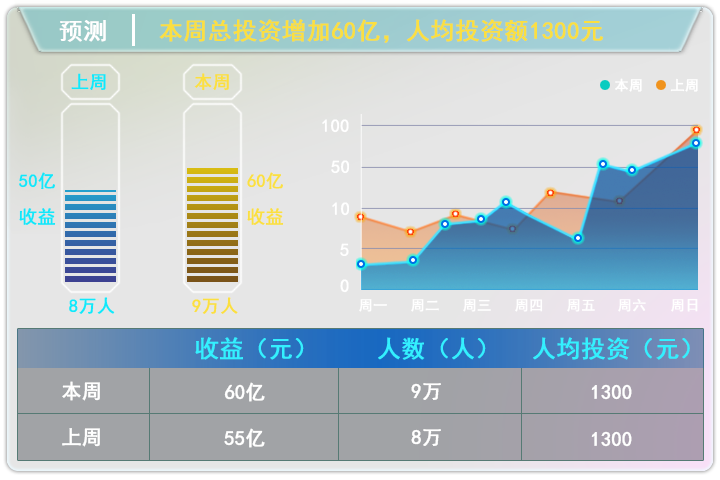
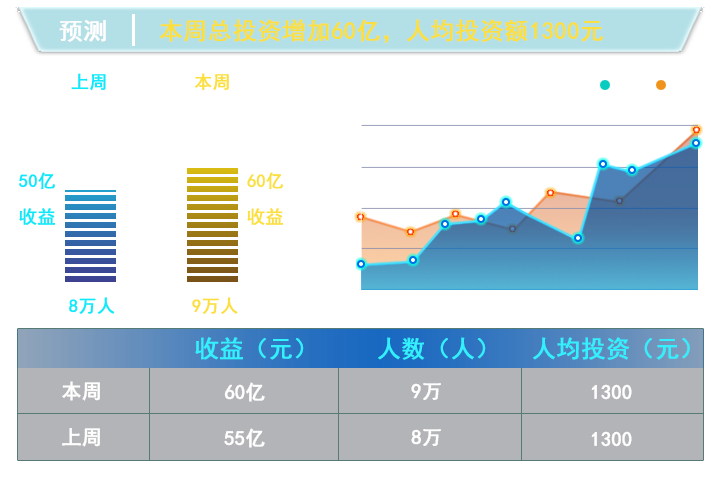
预言家假模块图片信息分开

diff --git a/source/7.5.11-eai-cockpit-forecast/FEaiCockpitForecastLogic001Snapshot.js b/source/7.5.11-eai-cockpit-forecast/FEaiCockpitForecastLogic001Snapshot.js
@@ -10,7 +10,8 @@ MO.FEaiCockpitForecastLogic001Snapshot = function FEaiCockpitForecastLogic001Sna
    //..........................................................
    o._comingSoon    = true;
    // @attribute
-   o._backgroundUri = '{eai.resource}/cockpit/forecast/logic1.png';
+   o._backgroundUri = '{eai.resource}/cockpit/forecast/logic.png';
+   o._contImage     = null;
    //..........................................................
    // @event
    o.onPaintBegin   = MO.FEaiCockpitForecastLogic001Snapshot_onPaintBegin;
@@ -32,9 +33,14 @@ MO.FEaiCockpitForecastLogic001Snapshot = function FEaiCockpitForecastLogic001Sna
 //
 // @method
 //==========================================================
-MO.FEaiCockpitForecastLogic001Snapshot_onPaintBegin = function FEaiCockpitForecastLogic001Snapshot_onPaintBegin(event){
+MO.FEaiCockpitForecastLogic001Snapshot_onPaintBegin = function FEaiCockpitForecastLogic001Snapshot_onPaintBegin(event) {
    var o = this;
    o.__base.FEaiCockpitControl.onPaintBegin.call(o, event);
+   graphic = event.graphic;
+   var rectangle = event.rectangle;
+   var left = rectangle.left;
+   var top = rectangle.top;
+   graphic.drawImage(o._contImage, left, top);
 }
 
 //==========================================================
@@ -68,6 +74,7 @@ MO.FEaiCockpitForecastLogic001Snapshot_construct = function FEaiCockpitForecastL
 MO.FEaiCockpitForecastLogic001Snapshot_setup = function FEaiCockpitForecastLogic001Snapshot_setup(){
    var o = this;
    o.__base.FEaiCockpitControl.setup.call(o);
+   o._contImage = o.loadResourceImage('{eai.resource}/cockpit/forecast/logic1.png');
 }
 
 //==========================================================

diff --git a/source/7.5.11-eai-cockpit-forecast/FEaiCockpitForecastLogic003Snapshot.js b/source/7.5.11-eai-cockpit-forecast/FEaiCockpitForecastLogic003Snapshot.js
@@ -10,7 +10,8 @@ MO.FEaiCockpitForecastLogic003Snapshot = function FEaiCockpitForecastLogic003Sna
    //..........................................................
    o._comingSoon    = true;
    // @attribute
-   o._backgroundUri = '{eai.resource}/cockpit/forecast/logic3.png';
+   o._backgroundUri = '{eai.resource}/cockpit/forecast/logic.png';
+   o._contImage     = null;
    //..........................................................
    // @event
    o.onPaintBegin   = MO.FEaiCockpitForecastLogic003Snapshot_onPaintBegin;
@@ -35,6 +36,11 @@ MO.FEaiCockpitForecastLogic003Snapshot = function FEaiCockpitForecastLogic003Sna
 MO.FEaiCockpitForecastLogic003Snapshot_onPaintBegin = function FEaiCockpitForecastLogic003Snapshot_onPaintBegin(event){
    var o = this;
    o.__base.FEaiCockpitControl.onPaintBegin.call(o, event);
+   graphic = event.graphic;
+   var rectangle = event.rectangle;
+   var left = rectangle.left;
+   var top = rectangle.top;
+   graphic.drawImage(o._contImage, left, top);
 }
 
 //==========================================================
@@ -68,6 +74,7 @@ MO.FEaiCockpitForecastLogic003Snapshot_construct = function FEaiCockpitForecastL
 MO.FEaiCockpitForecastLogic003Snapshot_setup = function FEaiCockpitForecastLogic003Snapshot_setup(){
    var o = this;
    o.__base.FEaiCockpitControl.setup.call(o);
+   o._contImage = o.loadResourceImage('{eai.resource}/cockpit/forecast/logic3.png');
 }
 
 //==========================================================

diff --git a/source/7.5.11-eai-cockpit-forecast/FEaiCockpitForecastLogic004Snapshot.js b/source/7.5.11-eai-cockpit-forecast/FEaiCockpitForecastLogic004Snapshot.js
@@ -10,7 +10,8 @@ MO.FEaiCockpitForecastLogic004Snapshot = function FEaiCockpitForecastLogic004Sna
    //..........................................................
    o._comingSoon    = true;
    // @attribute
-   o._backgroundUri = '{eai.resource}/cockpit/forecast/logic4.png';
+   o._backgroundUri = '{eai.resource}/cockpit/forecast/logic.png';
+   o._contImage     = null;
    //..........................................................
    // @event
    o.onPaintBegin   = MO.FEaiCockpitForecastLogic004Snapshot_onPaintBegin;
@@ -35,6 +36,11 @@ MO.FEaiCockpitForecastLogic004Snapshot = function FEaiCockpitForecastLogic004Sna
 MO.FEaiCockpitForecastLogic004Snapshot_onPaintBegin = function FEaiCockpitForecastLogic004Snapshot_onPaintBegin(event){
    var o = this;
    o.__base.FEaiCockpitControl.onPaintBegin.call(o, event);
+   graphic = event.graphic;
+   var rectangle = event.rectangle;
+   var left = rectangle.left;
+   var top = rectangle.top;
+   graphic.drawImage(o._contImage, left, top);
 }
 
 //==========================================================
@@ -68,6 +74,7 @@ MO.FEaiCockpitForecastLogic004Snapshot_construct = function FEaiCockpitForecastL
 MO.FEaiCockpitForecastLogic004Snapshot_setup = function FEaiCockpitForecastLogic004Snapshot_setup(){
    var o = this;
    o.__base.FEaiCockpitControl.setup.call(o);
+   o._contImage = o.loadResourceImage('{eai.resource}/cockpit/forecast/logic4.png');
 }
 
 //==========================================================

diff --git a/source/7.5.11-eai-cockpit-forecast/FEaiCockpitForecastLogic005Snapshot.js b/source/7.5.11-eai-cockpit-forecast/FEaiCockpitForecastLogic005Snapshot.js
@@ -10,7 +10,8 @@ MO.FEaiCockpitForecastLogic005Snapshot = function FEaiCockpitForecastLogic005Sna
    //..........................................................
    o._comingSoon    = true;
    // @attribute
-   o._backgroundUri = '{eai.resource}/cockpit/forecast/logic5.png';
+   o._backgroundUri = '{eai.resource}/cockpit/forecast/logic.png';
+   o._contImage     = null;
    //..........................................................
    // @event
    o.onPaintBegin   = MO.FEaiCockpitForecastLogic005Snapshot_onPaintBegin;
@@ -35,6 +36,11 @@ MO.FEaiCockpitForecastLogic005Snapshot = function FEaiCockpitForecastLogic005Sna
 MO.FEaiCockpitForecastLogic005Snapshot_onPaintBegin = function FEaiCockpitForecastLogic005Snapshot_onPaintBegin(event){
    var o = this;
    o.__base.FEaiCockpitControl.onPaintBegin.call(o, event);
+   graphic = event.graphic;
+   var rectangle = event.rectangle;
+   var left = rectangle.left;
+   var top = rectangle.top;
+   graphic.drawImage(o._contImage, left, top);
 }
 
 //==========================================================
@@ -68,6 +74,7 @@ MO.FEaiCockpitForecastLogic005Snapshot_construct = function FEaiCockpitForecastL
 MO.FEaiCockpitForecastLogic005Snapshot_setup = function FEaiCockpitForecastLogic005Snapshot_setup(){
    var o = this;
    o.__base.FEaiCockpitControl.setup.call(o);
+   o._contImage = o.loadResourceImage('{eai.resource}/cockpit/forecast/logic5.png');
 }
 
 //==========================================================

diff --git a/source/7.5.11-eai-cockpit-forecast/FEaiCockpitForecastLogic006Snapshot.js b/source/7.5.11-eai-cockpit-forecast/FEaiCockpitForecastLogic006Snapshot.js
@@ -10,7 +10,8 @@ MO.FEaiCockpitForecastLogic006Snapshot = function FEaiCockpitForecastLogic006Sna
    //..........................................................
    o._comingSoon    = true;
    // @attribute
-   o._backgroundUri = '{eai.resource}/cockpit/forecast/logic6.png';
+   o._backgroundUri = '{eai.resource}/cockpit/forecast/logic.png';
+   o._contImage     = null;
    //..........................................................
    // @event
    o.onPaintBegin   = MO.FEaiCockpitForecastLogic006Snapshot_onPaintBegin;
@@ -35,6 +36,11 @@ MO.FEaiCockpitForecastLogic006Snapshot = function FEaiCockpitForecastLogic006Sna
 MO.FEaiCockpitForecastLogic006Snapshot_onPaintBegin = function FEaiCockpitForecastLogic006Snapshot_onPaintBegin(event){
    var o = this;
    o.__base.FEaiCockpitControl.onPaintBegin.call(o, event);
+   graphic = event.graphic;
+   var rectangle = event.rectangle;
+   var left = rectangle.left;
+   var top = rectangle.top;
+   graphic.drawImage(o._contImage, left, top);
 }
 
 //==========================================================
@@ -68,6 +74,7 @@ MO.FEaiCockpitForecastLogic006Snapshot_construct = function FEaiCockpitForecastL
 MO.FEaiCockpitForecastLogic006Snapshot_setup = function FEaiCockpitForecastLogic006Snapshot_setup(){
    var o = this;
    o.__base.FEaiCockpitControl.setup.call(o);
+   o._contImage = o.loadResourceImage('{eai.resource}/cockpit/forecast/logic6.png');
 }
 
 //==========================================================

diff --git a/source/7.5.11-eai-cockpit-forecast/FEaiCockpitForecastLogic007Snapshot.js b/source/7.5.11-eai-cockpit-forecast/FEaiCockpitForecastLogic007Snapshot.js
@@ -10,7 +10,8 @@ MO.FEaiCockpitForecastLogic007Snapshot = function FEaiCockpitForecastLogic007Sna
    //..........................................................
    o._comingSoon    = true;
    // @attribute
-   o._backgroundUri = '{eai.resource}/cockpit/forecast/logic7.png';
+   o._backgroundUri = '{eai.resource}/cockpit/forecast/logic.png';
+   o._contImage     = null;
    //..........................................................
    // @event
    o.onPaintBegin   = MO.FEaiCockpitForecastLogic007Snapshot_onPaintBegin;
@@ -35,6 +36,11 @@ MO.FEaiCockpitForecastLogic007Snapshot = function FEaiCockpitForecastLogic007Sna
 MO.FEaiCockpitForecastLogic007Snapshot_onPaintBegin = function FEaiCockpitForecastLogic007Snapshot_onPaintBegin(event){
    var o = this;
    o.__base.FEaiCockpitControl.onPaintBegin.call(o, event);
+   graphic = event.graphic;
+   var rectangle = event.rectangle;
+   var left = rectangle.left;
+   var top = rectangle.top;
+   graphic.drawImage(o._contImage, left, top);
 }
 
 //==========================================================
@@ -68,6 +74,7 @@ MO.FEaiCockpitForecastLogic007Snapshot_construct = function FEaiCockpitForecastL
 MO.FEaiCockpitForecastLogic007Snapshot_setup = function FEaiCockpitForecastLogic007Snapshot_setup(){
    var o = this;
    o.__base.FEaiCockpitControl.setup.call(o);
+   o._contImage = o.loadResourceImage('{eai.resource}/cockpit/forecast/logic7.png');
 }
 
 //==========================================================

diff --git a/source/7.5.11-eai-cockpit-forecast/FEaiCockpitForecastLogic008Snapshot.js b/source/7.5.11-eai-cockpit-forecast/FEaiCockpitForecastLogic008Snapshot.js
@@ -10,7 +10,8 @@ MO.FEaiCockpitForecastLogic008Snapshot = function FEaiCockpitForecastLogic008Sna
    //..........................................................
    o._comingSoon    = true;
    // @attribute
-   o._backgroundUri = '{eai.resource}/cockpit/forecast/logic8.png';
+   o._backgroundUri = '{eai.resource}/cockpit/forecast/logic.png';
+   o._contImage     = null;
    //..........................................................
    // @event
    o.onPaintBegin   = MO.FEaiCockpitForecastLogic008Snapshot_onPaintBegin;
@@ -35,6 +36,11 @@ MO.FEaiCockpitForecastLogic008Snapshot = function FEaiCockpitForecastLogic008Sna
 MO.FEaiCockpitForecastLogic008Snapshot_onPaintBegin = function FEaiCockpitForecastLogic008Snapshot_onPaintBegin(event){
    var o = this;
    o.__base.FEaiCockpitControl.onPaintBegin.call(o, event);
+   graphic = event.graphic;
+   var rectangle = event.rectangle;
+   var left = rectangle.left;
+   var top = rectangle.top;
+   graphic.drawImage(o._contImage, left, top);
 }
 
 //==========================================================
@@ -68,6 +74,7 @@ MO.FEaiCockpitForecastLogic008Snapshot_construct = function FEaiCockpitForecastL
 MO.FEaiCockpitForecastLogic008Snapshot_setup = function FEaiCockpitForecastLogic008Snapshot_setup(){
    var o = this;
    o.__base.FEaiCockpitControl.setup.call(o);
+   o._contImage = o.loadResourceImage('{eai.resource}/cockpit/forecast/logic8.png');
 }
 
 //==========================================================
